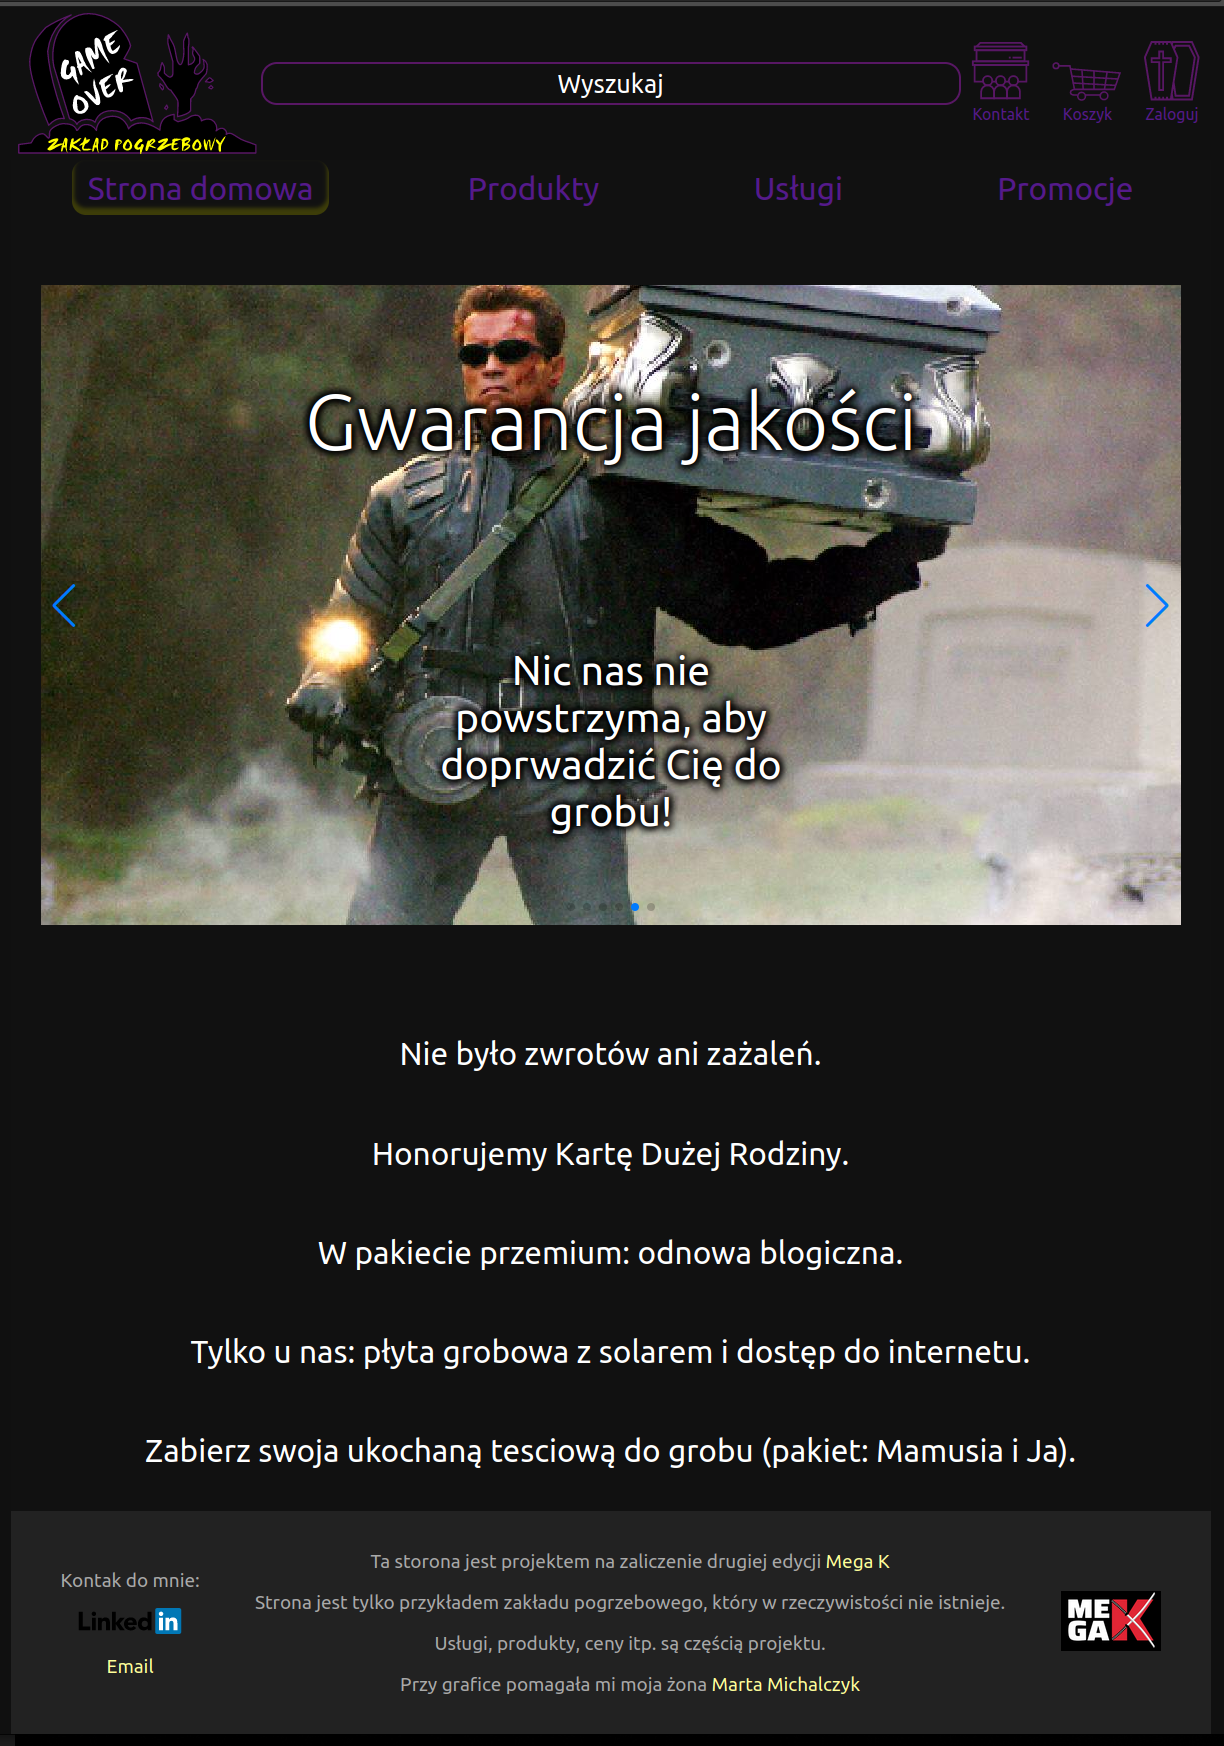
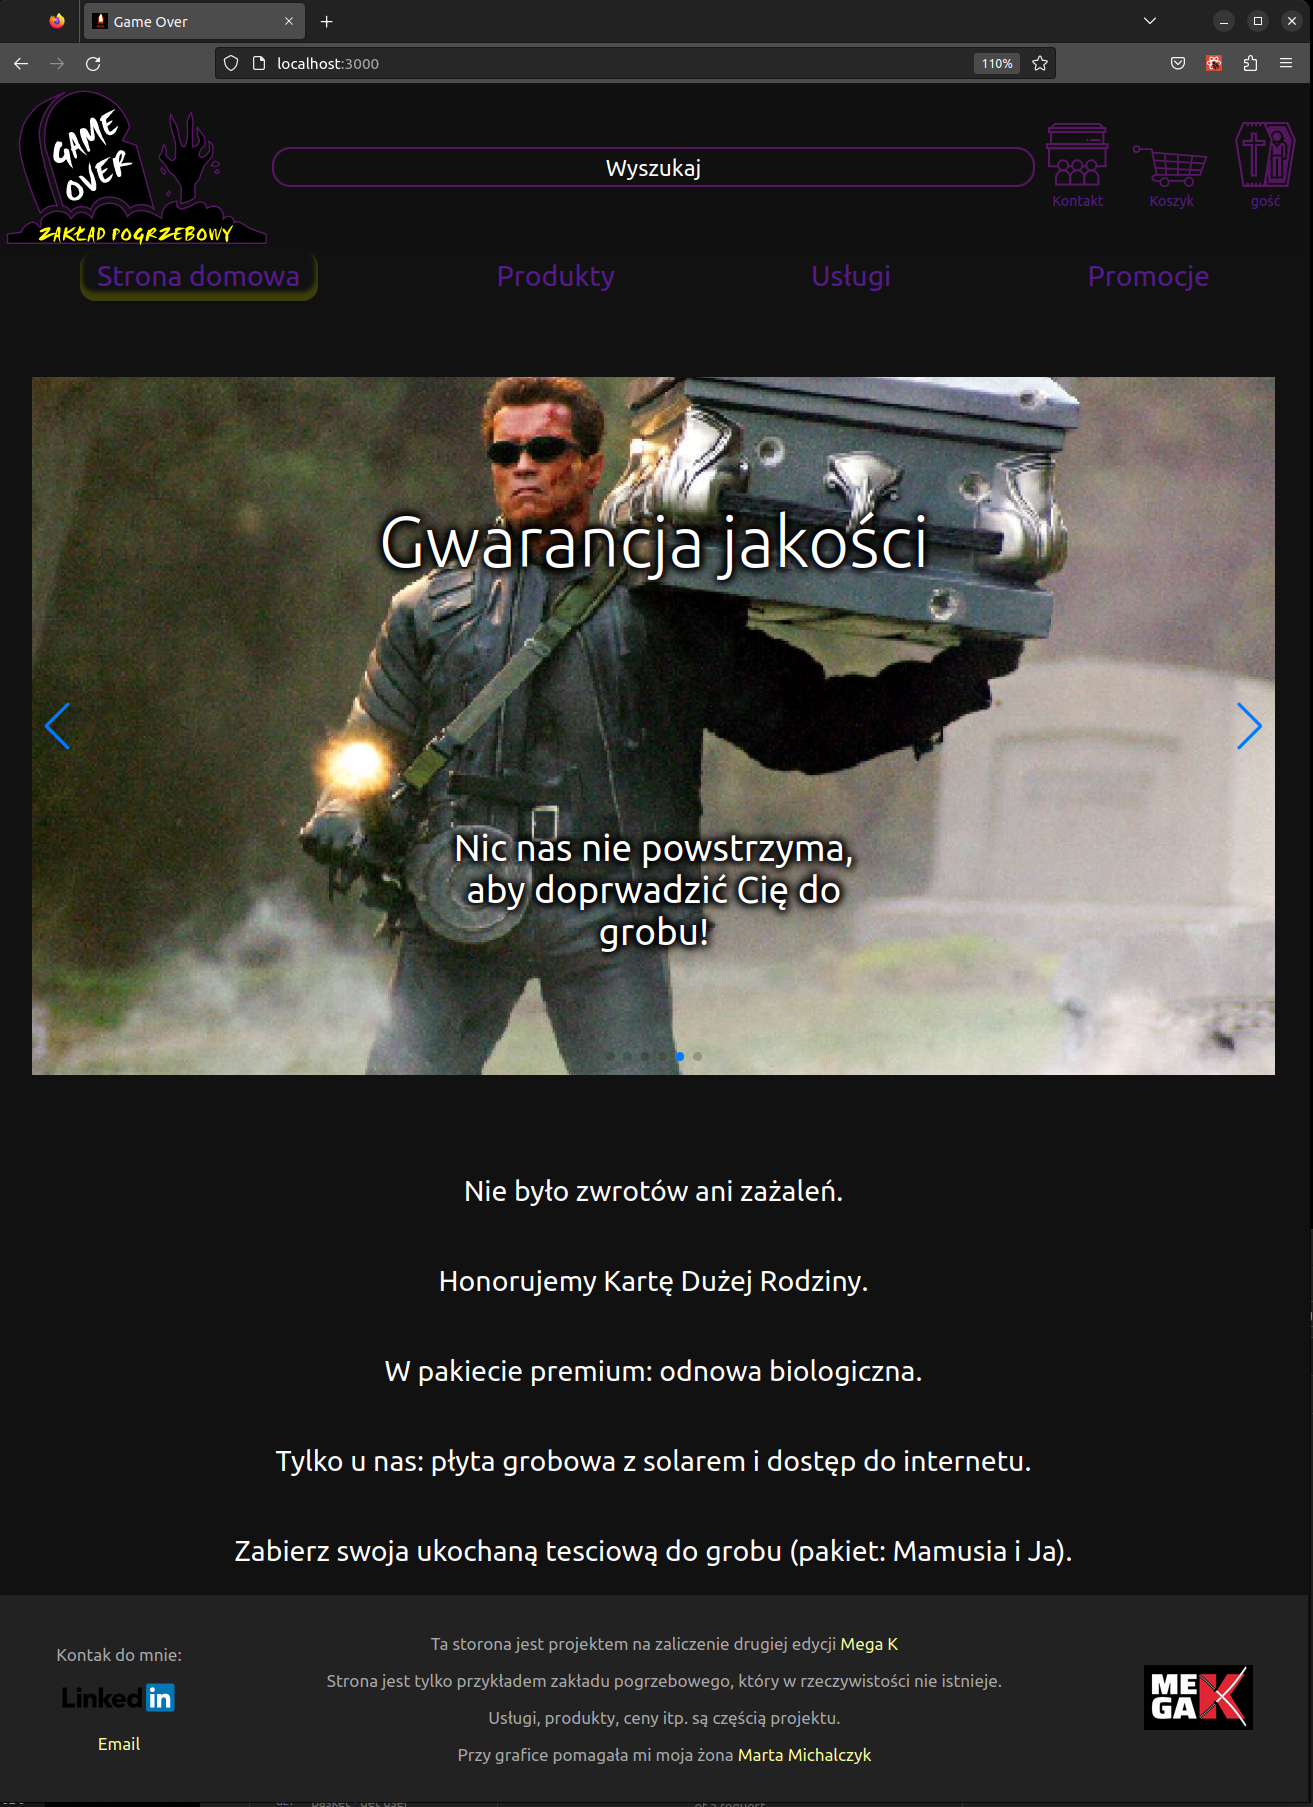
Fix spelling

diff --git a/src/components/Slider/Slider.tsx b/src/components/Slider/Slider.tsx
@@ -48,7 +48,7 @@ export const Slider = () => {
                     Pakiet EKO
                 </div>
                 <div className="text" >
-                    Gwarantujemy najnizsze ceny (gdy sam wykopiesz sobie grób).
+                    Gwarantujemy najniższe ceny (gdy sam wykopiesz sobie grób).
                 </div>
             </div>
         </SwiperSlide>

diff --git a/src/views/HomeView.tsx b/src/views/HomeView.tsx
@@ -12,7 +12,7 @@ export const HomeView = () => (
             Honorujemy Kartę Dużej Rodziny.
         </p>
         <p>
-            W pakiecie przemium: odnowa blogiczna.
+            W pakiecie premium: odnowa biologiczna.
         </p>
         <p>
             Tylko u nas: płyta grobowa z solarem i dostęp do internetu.

diff --git a/README.md b/README.md
@@ -137,7 +137,7 @@ Po prawidłowym zalogowaniu się, zmienia sie ikona w prawym górnym rogu.
 
 ### Widok produktu lub usługi
 
-Zalogownay urzytkownik ma mozliwość dodania produktu lub usługi do koszyka.
+Zalogownay użytkownik ma mozliwość dodania produktu lub usługi do koszyka.
 
 Administrator ma możliwość edytowania produktu.
 
@@ -153,7 +153,7 @@ Administrator ma możliwość edytowania produktu.
 
 ### Widok koszyka
 
-Po dodaniu produktu lub usługi do koszyka, zmienia sie ikona koszyka.
+Po dodaniu produktu lub usługi do koszyka, zmienia się ikona koszyka.
 
 <p align="center">
   <img src="./printscreen/Scren09.png" alt="github" width="612" /> 
@@ -163,7 +163,7 @@ Po dodaniu produktu lub usługi do koszyka, zmienia sie ikona koszyka.
 
 Miejscowość prawdziwa.
 
-Ulica wymyslona.
+Ulica wymyślona.
 
 <p align="center">
   <img src="./printscreen/Scren10.png" alt="github" width="612" /> 
